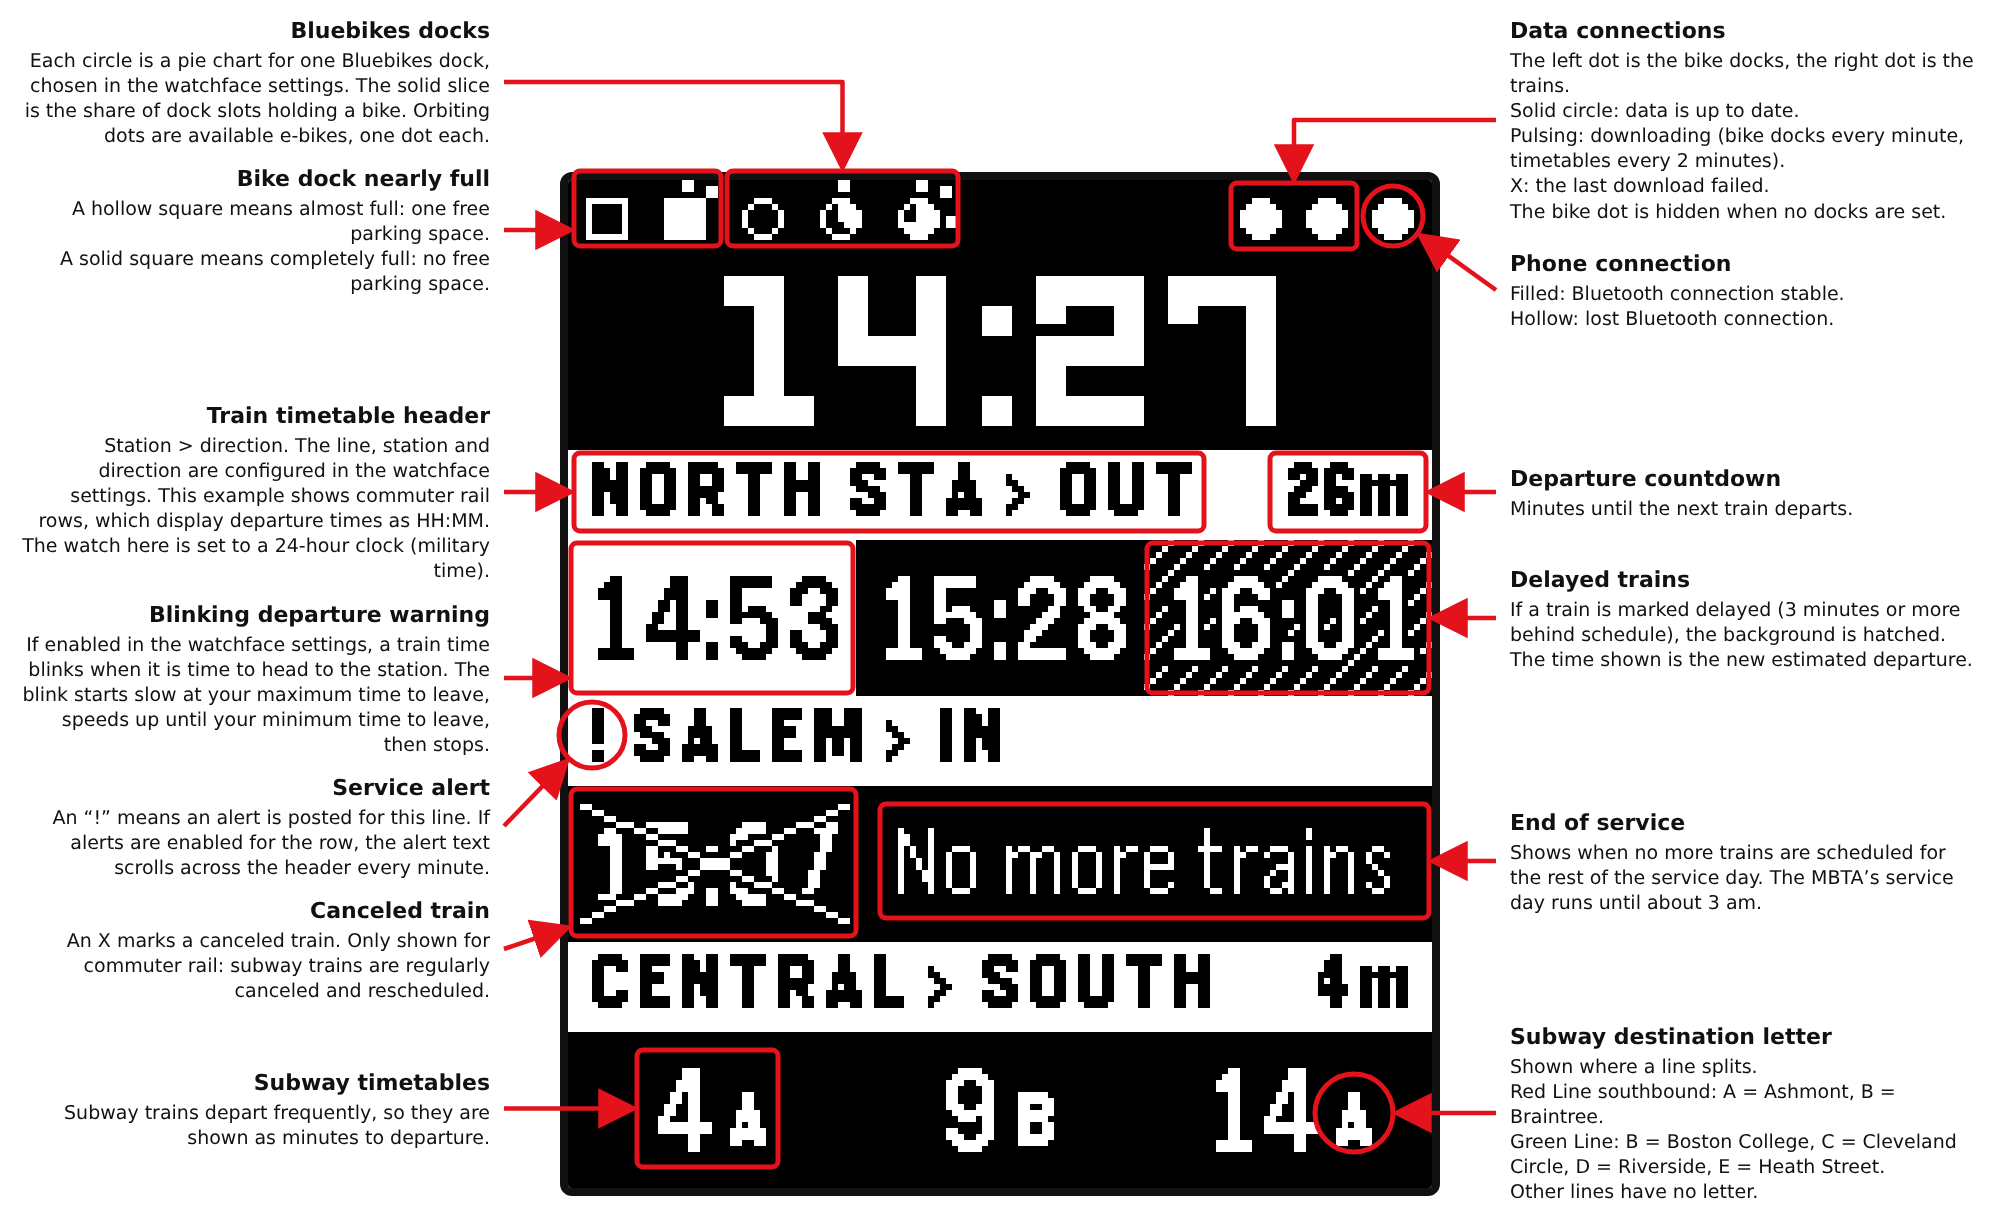
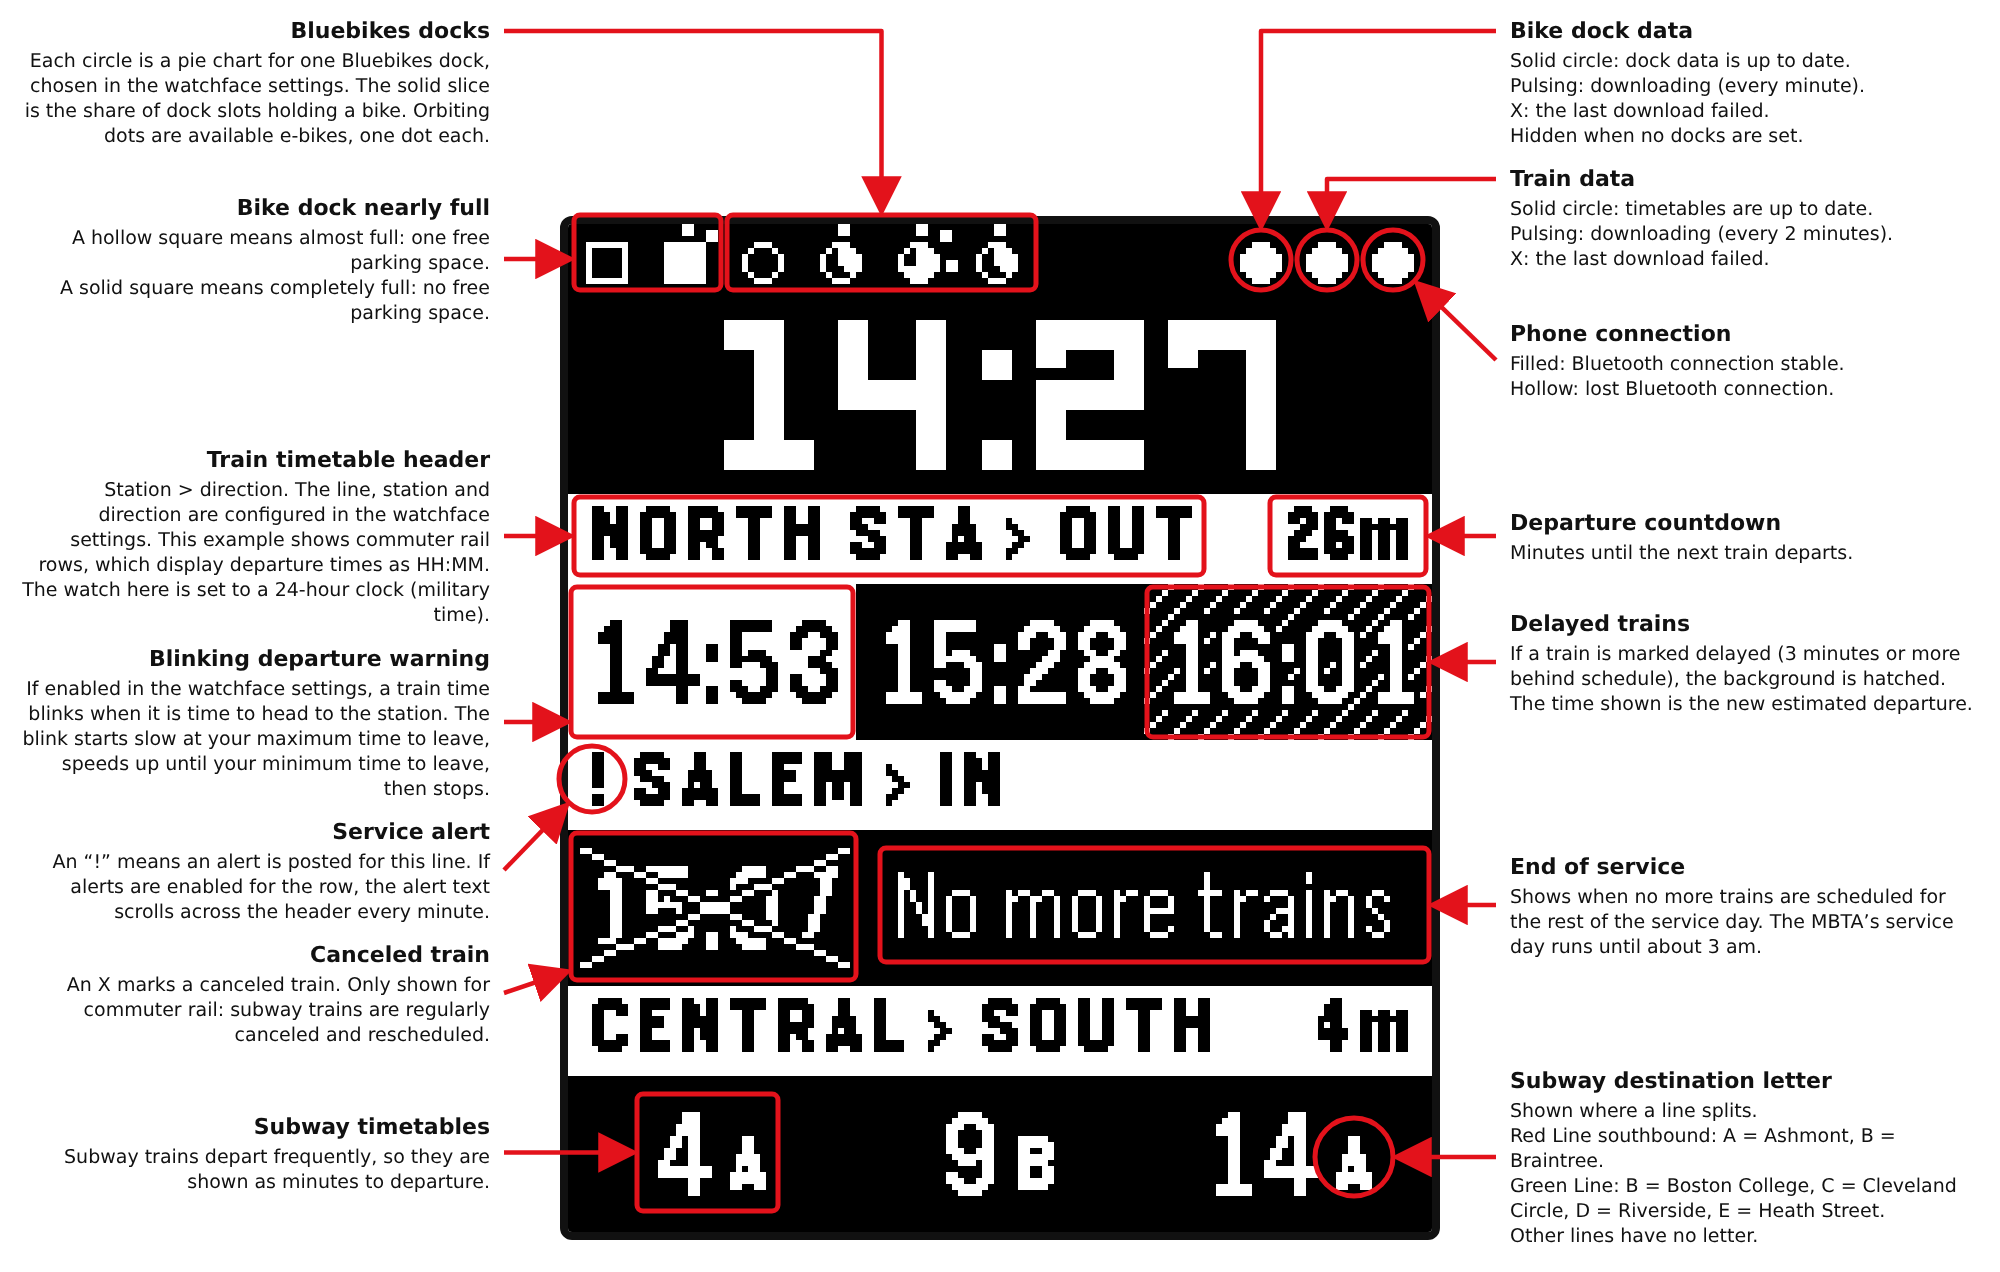
Version 0.2.5: sixth Bluebikes slot; guide shows six docks with separate bike and train data callouts
Claude-Session: https://claude.ai/code/session_018kUttcRWv8pxFU9anVHVt8

Changed region(s): [[0.0, 0.0, 0.992, 0.9902], [0.031, 0.8664, 0.403, 0.9593]]

diff --git a/docs/watch-guide.html b/docs/watch-guide.html
@@ -12,21 +12,22 @@ svg{position:absolute;left:0;top:0}
 </style>
 <div id="c"><img id="w" src="watch-screen.png"><svg id="s" width="2000"></svg></div>
 <script>
-var K=6,X0=568,Y0=180,LX=504,RX=1496,GAP=16;
+var K=6,X0=568,Y0=224,LX=504,RX=1496,GAP=16;
 function px(x){return X0+x*K} function py(y){return Y0+y*K}
 // Targets are in watch pixels: box [x1,y1,x2,y2] or circ [cx,cy,r].
 // top: the arrow runs across the top margin and drops onto the target.
 // at: [x,y] watch pixel the arrow should end at instead of the nearest edge.
 var items=[
- {side:'l',top:1,title:'Bluebikes docks',body:'Each circle is a pie chart for one Bluebikes dock, chosen in the watchface settings. The solid slice is the share of dock slots holding a bike. Orbiting dots are available e-bikes, one dot each.',box:[26.5,-1.5,65,11]},
- {side:'l',title:'Bike dock nearly full',body:'A hollow square means almost full: one free parking space.<br>A solid square means completely full: no free parking space.',box:[1,-1.5,25.5,11],ty:215},
+ {side:'l',top:1,title:'Bluebikes docks',body:'Each circle is a pie chart for one Bluebikes dock, chosen in the watchface settings. The solid slice is the share of dock slots holding a bike. Orbiting dots are available e-bikes, one dot each.',box:[26.5,-1.5,78,11]},
+ {side:'l',title:'Bike dock nearly full',body:'A hollow square means almost full: one free parking space.<br>A solid square means completely full: no free parking space.',box:[1,-1.5,25.5,11],ty:259},
  {side:'l',title:'Train timetable header',body:'Station &gt; direction. The line, station and direction are configured in the watchface settings. This example shows commuter rail rows, which display departure times as HH:MM. The watch here is set to a 24-hour clock (military time).',box:[1,45.5,106,58.5]},
  {side:'l',title:'Blinking departure warning',body:'If enabled in the watchface settings, a train time blinks when it is time to head to the station. The blink starts slow at your maximum time to leave, speeds up until your minimum time to leave, then stops.',box:[0.5,60.5,47.5,85.5]},
  {side:'l',title:'Service alert',body:'An “!” means an alert is posted for this line. If alerts are enabled for the row, the alert text scrolls across the header every minute.',circ:[4,92.5,5.5]},
  {side:'l',title:'Canceled train',body:'An X marks a canceled train. Only shown for commuter rail: subway trains are regularly canceled and rescheduled.',box:[0.5,101.5,48,126]},
  {side:'l',title:'Subway timetables',body:'Subway trains depart frequently, so they are shown as minutes to departure.',box:[11.5,145,35,164.5]},
- {side:'r',top:1,title:'Data connections',body:'The left dot is the bike docks, the right dot is the trains.<br>Solid circle: data is up to date.<br>Pulsing: downloading (bike docks every minute, timetables every 2 minutes).<br>X: the last download failed.<br>The bike dot is hidden when no docks are set.',box:[110.5,0.5,131.5,11.5]},
- {side:'r',title:'Phone connection',body:'Filled: Bluetooth connection stable.<br>Hollow: lost Bluetooth connection.',circ:[137.5,6,5],ty:290},
+ {side:'r',top:1,title:'Bike dock data',body:'Solid circle: dock data is up to date.<br>Pulsing: downloading (every minute).<br>X: the last download failed.<br>Hidden when no docks are set.',circ:[115.5,6,5]},
+ {side:'r',top:2,title:'Train data',body:'Solid circle: timetables are up to date.<br>Pulsing: downloading (every 2 minutes).<br>X: the last download failed.',circ:[126.5,6,5]},
+ {side:'r',title:'Phone connection',body:'Filled: Bluetooth connection stable.<br>Hollow: lost Bluetooth connection.',circ:[137.5,6,5],ty:360},
  {side:'r',title:'Departure countdown',body:'Minutes until the next train departs.',box:[117,45.5,143,58.5]},
  {side:'r',title:'Delayed trains',body:'If a train is marked delayed (3 minutes or more behind schedule), the background is hatched. The time shown is the new estimated departure.',box:[96.5,60.5,143.5,85.5]},
  {side:'r',title:'End of service',body:'Shows when no more trains are scheduled for the rest of the service day. The MBTA’s service day runs until about 3 am.',box:[52,104,143.5,123]},
@@ -40,13 +41,13 @@ items.forEach(function(it){
   it.el=document.createElement('div');it.el.className='t '+it.side;
   it.el.innerHTML='<b>'+it.title+'</b>'+it.body;c.appendChild(it.el);
   it.h=it.el.offsetHeight;
-  it.want=it.top?it.h/2+16:(it.ty||(it.b.y1+it.b.y2)/2);
+  it.want=it.top?it.top:(it.ty||(it.b.y1+it.b.y2)/2);
 });
 var H=Y0+168*K+40;
 ['l','r'].forEach(function(side){
   var col=items.filter(function(i){return i.side===side}).sort(function(a,b){return a.want-b.want});
   col.forEach(function(it,i){
-    it.y=it.want;
+    it.y=Math.max(it.want,it.h/2+16);
     if(i>0){var p=col[i-1],min=p.y+p.h/2+GAP+it.h/2;if(it.y<min)it.y=min;}
   });
   for(var i=col.length-1;i>=0;i--){
@@ -60,7 +61,8 @@ items.forEach(function(it){
   it.el.style.top=(it.y-it.h/2)+'px';
   if(b.c) svg+='<circle cx="'+cx+'" cy="'+cy+'" r="'+(b.x2-b.x1)/2+'" fill="none" stroke="'+R+'" stroke-width="5"/>';
   else svg+='<rect x="'+b.x1+'" y="'+b.y1+'" width="'+(b.x2-b.x1)+'" height="'+(b.y2-b.y1)+'" rx="6" fill="none" stroke="'+R+'" stroke-width="5"/>';
-  if(it.top) d='M'+sx+','+it.y+' L'+cx+','+it.y+' L'+cx+','+(b.y1-5);
+  var ay=it.y-it.h/2+15; // top arrows leave from the title line
+  if(it.top) d='M'+sx+','+ay+' L'+cx+','+ay+' L'+cx+','+(b.y1-5);
   else if(it.at) d='M'+sx+','+it.y+' L'+px(it.at[0])+','+py(it.at[1]);
   else{
     var ex=left?b.x1-5:b.x2+5,ey=Math.max(b.y1+8,Math.min(b.y2-8,it.y));

diff --git a/src/pkjs/config.js b/src/pkjs/config.js
@@ -113,7 +113,7 @@ function rowSection(row, i, saved) {
 }
 
 // Must match NUM_BIKES in src/pkjs/index.js.
-var NUM_BIKES = 5;
+var NUM_BIKES = 6;
 var BIKE_NONE_OPTION = { value: '', label: 'None' };
 
 // A dock's saved value is "<station id>|<station name>", so the name can be
@@ -133,7 +133,7 @@ function bikeSection(saved) {
     { type: 'heading', defaultValue: 'Bluebikes docks' },
     {
       type: 'text',
-      defaultValue: 'Up to five docks, shown as small circles along the top left of ' +
+      defaultValue: 'Up to six docks, shown as small circles along the top left of ' +
                     'the watch in this order. Each fills like a pie with the share ' +
                     'of its spaces holding a bike; a dot beside it means an e-bike ' +
                     'is available. Type part of a name to search, then pick the dock.'

diff --git a/src/pkjs/index.js b/src/pkjs/index.js
@@ -34,7 +34,7 @@ var ALERT_MAX_CHARS = 160;
 // whole system's status is fetched each time.
 var BIKE_STATUS_URL = 'https://gbfs.lyft.com/gbfs/1.1/bos/en/station_status.json';
 // Must match NUM_BIKES and BIKE_LEVELS in src/c/watchface.c.
-var NUM_BIKES = 5;
+var NUM_BIKES = 6;
 var BIKE_LEVELS = 8;
 var BIKE_NONE = '-';
 // Levels past BIKE_LEVELS; must match src/c/watchface.c.

diff --git a/src/pkjs/config-page.js b/src/pkjs/config-page.js
@@ -280,7 +280,7 @@ module.exports = function() {
   }
 
   // Bluebikes docks: each slot has a search box that filters the select below it.
-  var NUM_BIKES = 5;
+  var NUM_BIKES = 6;
   var BIKE_MATCH_LIMIT = 40;
   var BIKE_INFO_URL = 'https://gbfs.lyft.com/gbfs/1.1/bos/en/station_information.json';
   var bikeStations = null;

diff --git a/src/c/watchface.c b/src/c/watchface.c
@@ -62,7 +62,7 @@ typedef struct {
 // Bluebikes docks, shown as small pies along the top left: how full of bikes
 // each dock is, with a dot beside it when an e-bike is available.
 // Must match NUM_BIKES and BIKE_LEVELS in src/pkjs/index.js.
-#define NUM_BIKES 5
+#define NUM_BIKES 6
 #define BIKE_LEVELS 8
 #define BIKE_NONE '-'
 // Levels above BIKE_LEVELS are drawn as squares so a dock with nowhere to
@@ -178,7 +178,7 @@ static time_t s_last_request;
 // Two characters per dock: the fill level as a letter from 'a' (0) to
 // 'a' + BIKE_LEVELS, then BIKE_ONE_FREE and BIKE_FULL, or BIKE_NONE when the
 // slot is unused; then the number of e-bikes as a digit.
-static char s_bikes[2 * NUM_BIKES + 1] = "-0-0-0-0-0";
+static char s_bikes[2 * NUM_BIKES + 1] = "-0-0-0-0-0-0";
 static Diag s_diag;
 // The previous run's breadcrumb as text, until the phone has received it.
 static char s_prev_diag[96];

diff --git a/README.md b/README.md
@@ -24,7 +24,7 @@ wherever more than one branch stops.
 
 ### Bluebikes docks
 
-Up to five [Bluebikes](https://bluebikes.com/system-data) docks can be shown as
+Up to six [Bluebikes](https://bluebikes.com/system-data) docks can be shown as
 small circles along the top left, in the order they are set. Each circle fills
 like a pie with the share of the dock's spaces that hold a rentable bike (an
 empty ring means no bikes). The shape turns square when there is almost
@@ -64,7 +64,7 @@ in `src/pkjs/config.js`) from the Pebble app, or in the emulator with
   row's label once a minute and `!` is shown before the label in between.
   Minor notices (severity below 3) are left out. If the watch ever resets
   during a scroll, alerts stay off until the settings are saved again.
-- **Bluebikes docks**: five slots, each with a search box. Type part of a
+- **Bluebikes docks**: six slots, each with a search box. Type part of a
   dock's name and pick it from the list beneath.
 - **Departure warning** per row: while a departure is inside its range it
   blinks (inverted), blinking faster as the end of the range approaches — a
